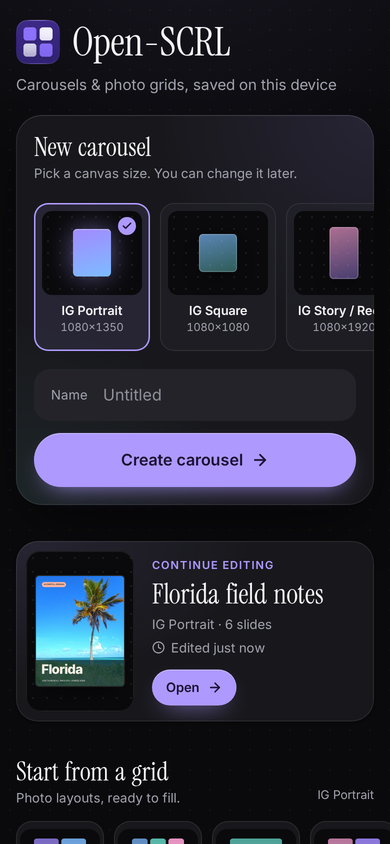
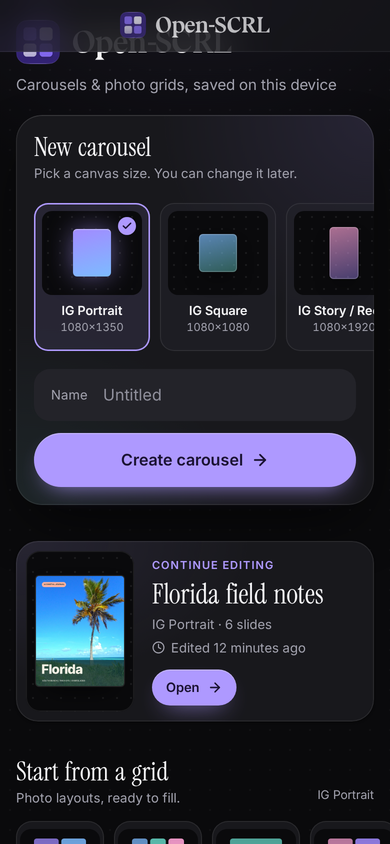
Set the Open-SCRL wordmark in Bluu Next
Bundle the real bold face through Fontsource for offline use. Apply it
to desktop and phone home branding and the loading screen, and size
the phone title to fit beside the Mac icon on narrow screens.

Refresh the home screenshots and document the wordmark font.

Changed region(s): [[0.0, 0.0, 0.6769, 0.0924], [0.5538, 0.7393, 0.7077, 0.8009], [0.7385, 0.7393, 0.7692, 0.7701]]

diff --git a/src/fonts.css b/src/fonts.css
@@ -7,10 +7,19 @@
  * the precache would download for nothing. Text outside these ranges falls back to the system font
  * in the stack (see fontFamily in tailwind.config.js).
  *
- * Fontsource registers the families as 'Inter Variable' and 'Instrument Serif'. Plain 'Inter' is
+ * Fontsource registers 'Inter Variable', 'Instrument Serif', and 'Bluu Next'. Plain 'Inter' is
  * deliberately not registered here: text layers keep the portable fontFamily 'Inter', which
  * resolveFontFamily maps to the bundled face for editing, canvas drawing, and export.
  */
+
+/* Bluu Next: the Open-SCRL wordmark only, using its real bold face. */
+@font-face {
+  font-family: 'Bluu Next';
+  font-style: normal;
+  font-display: swap;
+  font-weight: 700;
+  src: url('@fontsource/bluu-next/files/bluu-next-latin-700-normal.woff2') format('woff2');
+}
 
 /* Inter: the UI sans (wght axis). */
 @font-face {

diff --git a/src/components/mobile/MobileHome.tsx b/src/components/mobile/MobileHome.tsx
@@ -80,7 +80,7 @@ export default function MobileHome() {
       <div aria-hidden className="home-topbar" data-collapsed={collapsed}>
         <div className="home-topbar-inner">
           <AppLogo className="home-logo home-logo-sm" size={26} />
-          <span className="home-brand-name">Open-SCRL</span>
+          <span className="home-brand-name app-wordmark">Open-SCRL</span>
         </div>
       </div>
 
@@ -94,7 +94,7 @@ export default function MobileHome() {
           <header className="home-phone-header">
             <div className="home-phone-brand">
               <AppLogo className="home-logo home-logo-lg" size={44} />
-              <h1 className="home-phone-title">Open-SCRL</h1>
+              <h1 className="home-phone-title app-wordmark">Open-SCRL</h1>
             </div>
             <p>Carousels &amp; photo grids, saved on this device</p>
           </header>

diff --git a/src/components/home/home.css b/src/components/home/home.css
@@ -6,8 +6,8 @@
 
 /* Serif titles: Instrument Serif is single weight, so pin 400 and never let a parent fake a bold. */
 :is(
-  .home-brand-name, .home-section-title, .home-hero-title, .home-card-name, .home-row-name, .home-prow-name,
-  .home-continue-name, .home-empty-title, .home-phone-title
+  .home-section-title, .home-hero-title, .home-card-name, .home-row-name, .home-prow-name,
+  .home-continue-name, .home-empty-title
 ) {
   font-family: 'Instrument Serif', ui-serif, Georgia, 'Times New Roman', serif;
   font-weight: 400;

diff --git a/src/components/mobile/home/home.css b/src/components/mobile/home/home.css
@@ -39,7 +39,7 @@
 
 .home-phone-header { margin-bottom: 20px; }
 .home-phone-brand { display: flex; align-items: center; gap: 12px; }
-.home-phone-title { font-size: 40px; line-height: 1; letter-spacing: -.01em; color: rgb(var(--c-ink)); }
+.home-phone-title { margin: 0; font-size: 32px; line-height: 1; color: rgb(var(--c-ink)); }
 .home-phone-header p { margin: 10px 0 0; font-size: 15px; line-height: 1.4; color: rgb(var(--c-ink-dim)); }
 .home-phone-content > .home-alert { margin-bottom: 16px; }
 

diff --git a/src/components/landing/HomeHeader.tsx b/src/components/landing/HomeHeader.tsx
@@ -7,7 +7,7 @@ export function HomeHeader({ onNew }: { onNew: () => void }) {
     <header className="home-header studio-glass">
       <div className="home-brand">
         <AppLogo className="home-logo" />
-        <span className="home-brand-name">Open-SCRL</span>
+        <span className="home-brand-name app-wordmark">Open-SCRL</span>
       </div>
       <div className="home-header-actions">
         <span className="home-chip" title="Projects are stored in this browser and never uploaded">

diff --git a/src/index.css b/src/index.css
@@ -37,6 +37,13 @@
 }
 
 @layer components {
+  .app-wordmark {
+    font-family: 'Bluu Next', ui-serif, Georgia, serif;
+    font-weight: 700;
+    font-synthesis: none;
+    letter-spacing: -0.025em;
+  }
+
   /* Headings ------------------------------------------------------------ */
   /* Instrument Serif, for titles and headings. It is a single-weight (400) condensed display face
      with a small x-height, so it is set larger than the sans would be at the same visual size, and

diff --git a/index.html b/index.html
@@ -13,7 +13,7 @@
     <div id="root">
       <div role="status" aria-label="Loading Open-SCRL" class="flex h-full w-full flex-col items-center justify-center gap-4 text-ink-dim">
         <img src="/app-icon.png" width="48" height="48" alt="" aria-hidden="true" />
-        <p class="heading-lg -mt-1 text-ink">Open-SCRL</p>
+        <p class="app-wordmark text-[26px] -mt-1 text-ink">Open-SCRL</p>
         <span class="text-sm">Loading…</span>
       </div>
     </div>

diff --git a/docs/redesign/studio-home.md b/docs/redesign/studio-home.md
@@ -16,7 +16,7 @@ Grid starters may be added to desktop because they reuse an existing phone featu
 ## Desktop
 
 1. **Header island.** Floating glass pill across the top (inset like the editor islands): Mac app icon and
-   "Open-SCRL" in serif on the left; on the right a quiet privacy chip ("Saved on this device") and a lilac
+   "Open-SCRL" in Bluu Next on the left; on the right a quiet privacy chip ("Saved on this device") and a lilac
    "New carousel" button that scrolls to and focuses the create panel.
 2. **Hero / create panel.** One wide glass panel:
    - Left column: serif headline (about 44–52px), for example "Make something worth swiping.", one line of
@@ -43,7 +43,7 @@ Grid starters may be added to desktop because they reuse an existing phone featu
 
 ## Phone
 
-1. **Top bar.** Glass bar with logo and serif title that compacts on scroll (keep the current collapsing
+1. **Top bar.** Glass bar with the Mac icon and Bluu Next wordmark that compacts on scroll (keep the current collapsing
    behavior), safe-area aware.
 2. **Create card.** Serif "New carousel", horizontally snapping format cards with proportional frames, name field,
    lilac full-width "Create carousel" button. 44px minimum targets.

diff --git a/docs/design.md b/docs/design.md
@@ -6,6 +6,11 @@ Serif titles. Blue, teal and pink join lilac in format previews, grid starters,
 empty-state artwork and fallback project covers. Selection and focus stay
 lilac; canvas alignment guides use blue.
 
+The Open-SCRL wordmark uses Bluu Next’s bold face, self-hosted through
+`@fontsource/bluu-next`. It appears in the desktop header, both phone home
+headers and the loading screen. The phone wordmark is 32px so the wider
+letterforms fit beside the icon at 320px. Other titles use Instrument Serif.
+
 `src/index.css` imports `src/styles/studio/` directly. `tokens.css` defines
 all global `:root` values and `color-scheme: dark`; `chrome.css`, `panels.css`,
 `inspector.css`, `landing.css` and `mobile.css` style their respective areas.
